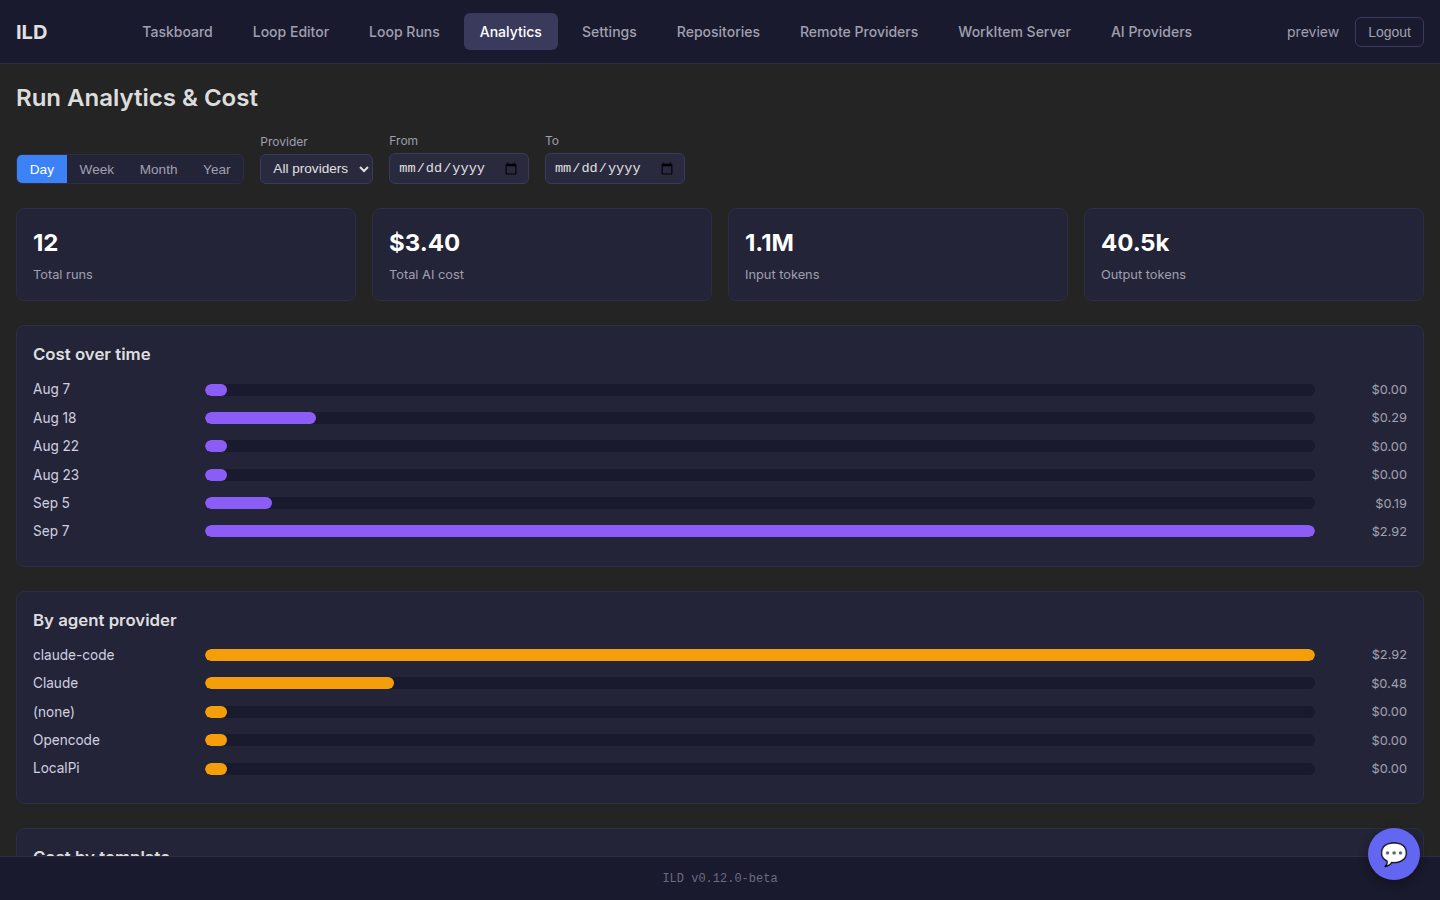
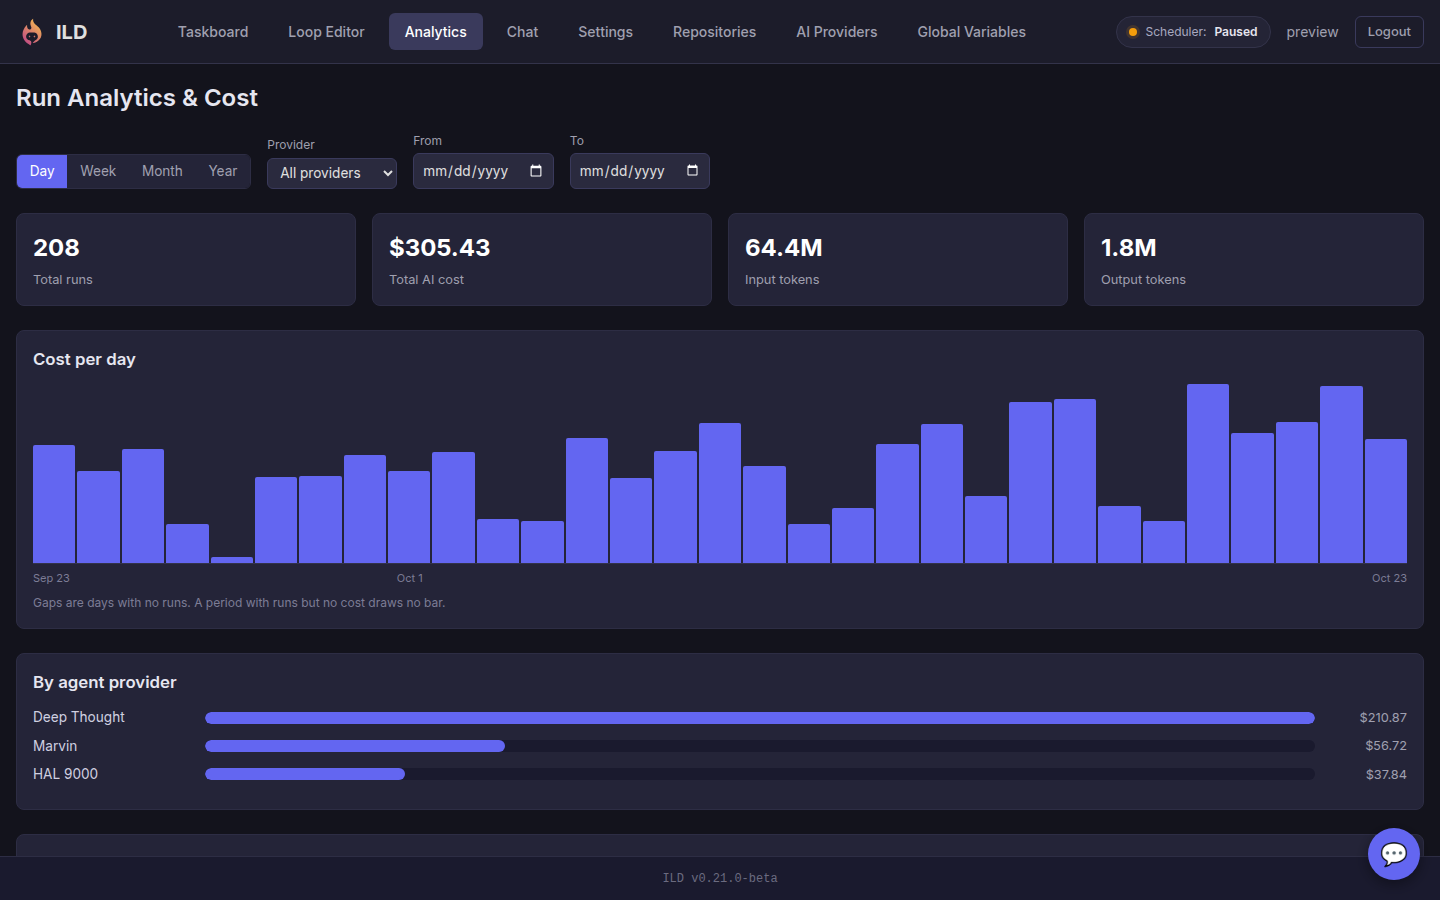
docs: README screenshots as a Getting started walkthrough, then features
Fresh screenshots of v0.21 on a cleared preview with made-up scenarios:
add an agent, add a repository, create a work item, then the taskboard,
AI chat, Loop Editor, run timeline, human gates, files diff, QA preview,
network log and analytics.

diff --git a/README.md b/README.md
@@ -34,7 +34,23 @@ See [docs/deployment.md](docs/deployment.md) for volumes, bind mounts, and first
 
 ## Screenshots
 
-**Taskboard** — every work item across the seven statuses, in one view. Work queue and Ready items share the Work queue column, each card saying why it waits; the order is a preference, not a line: Ild starts the top-most item that can start, and a waiting item doesn't hold up the ones below it. A running card carries the node it is on and how long it has been there; a parked one says why it stopped, down to the PR's CI and review verdicts. Tags that name a loop template are highlighted, because that is what decides which loop the item runs.
+### Getting started
+
+**1. Add an agent** — on **AI Providers**, pick the coding agent CLI to run (`opencode`, `pi`, `claude-code`, `copilot` or `codex`), optionally a model and extra arguments, and give it tags. An AI node whose tag matches runs on this provider; the rest run on the default one. CLIs that sign in with a subscription, like Claude Code, are logged in once from the provider's **Open terminal**.
+
+![Add an agent](docs/screenshots/AddAgent.png)
+
+**2. Add a repository** — **Repositories** groups repositories under the remote provider that hosts them (GitHub, Forgejo or Azure DevOps). A repository needs a name, a clone URL and a default branch; a custom `.env` is stored encrypted and handed to its previews without ever being written into the worktree.
+
+![Add a repository](docs/screenshots/AddRepository.png)
+
+**3. Create a work item** — **New work item** on the Taskboard takes a title, a Markdown description, attachments, the repository and tags. A tag that names a loop template decides which loop runs the item. Move it to the Work queue and the scheduler starts it.
+
+![Create a work item](docs/screenshots/NewWorkItem.png)
+
+### Features
+
+**Taskboard** — every work item across the seven statuses, in one view. Work queue and Ready items share the Work queue column, each card saying why it waits; the order is a preference, not a line: Ild starts the top-most item that can start, and a waiting item doesn't hold up the ones below it. A running card carries the node it is on and how long it has been running; a parked one says why it stopped, down to the PR's CI and review verdicts. Tags that name a loop template are highlighted, because that is what decides which loop the item runs.
 
 ![Taskboard](docs/screenshots/TaskboardOverview.png)
 
@@ -46,11 +62,11 @@ See [docs/deployment.md](docs/deployment.md) for volumes, bind mounts, and first
 
 ![Loop Editor](docs/screenshots/LoopEditorExample.png)
 
-**Run timeline** — the Runs tab replays a run node by node: what each one was given, what it produced, how long it took, and what the AI nodes cost in tokens and dollars. Any node can be retried on its own without restarting the loop.
+**Run timeline** — the Runs tab replays a run node by node: what each one was given, what it produced and how long it took, with what the run's AI nodes cost in dollars and tokens on top. **Retry** on a node runs the loop again from there with the same input.
 
 ![Run timeline](docs/screenshots/RunTimeline.png)
 
-**Human gates** — when a loop reaches a `Human` or `PR` node it parks and waits. The Action tab shows why it stopped, the pull request's state and review thread, and the buttons that send it back down a success, failure, or custom edge.
+**Human gates** — when a loop reaches a `Human` or `PR` node it parks and waits. The Action tab shows why it stopped, the pull request's state and review thread, and one button per way out of the node — here **Approve**, **Merge** and **Reject**.
 
 ![Human gates](docs/screenshots/HumanFeedbackPr.png)
 
